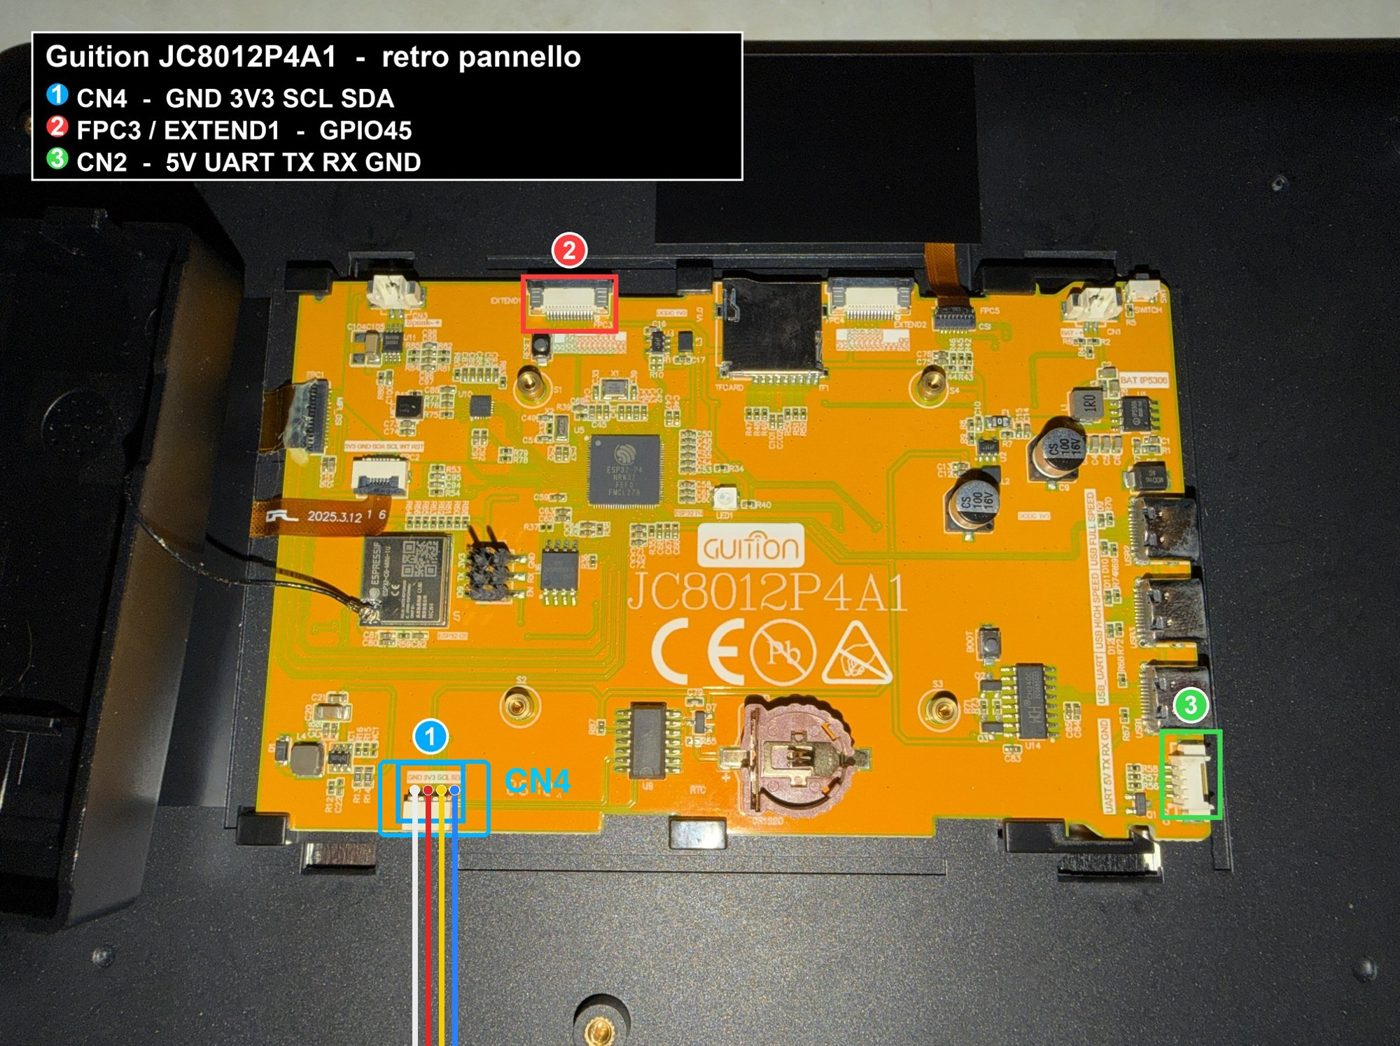
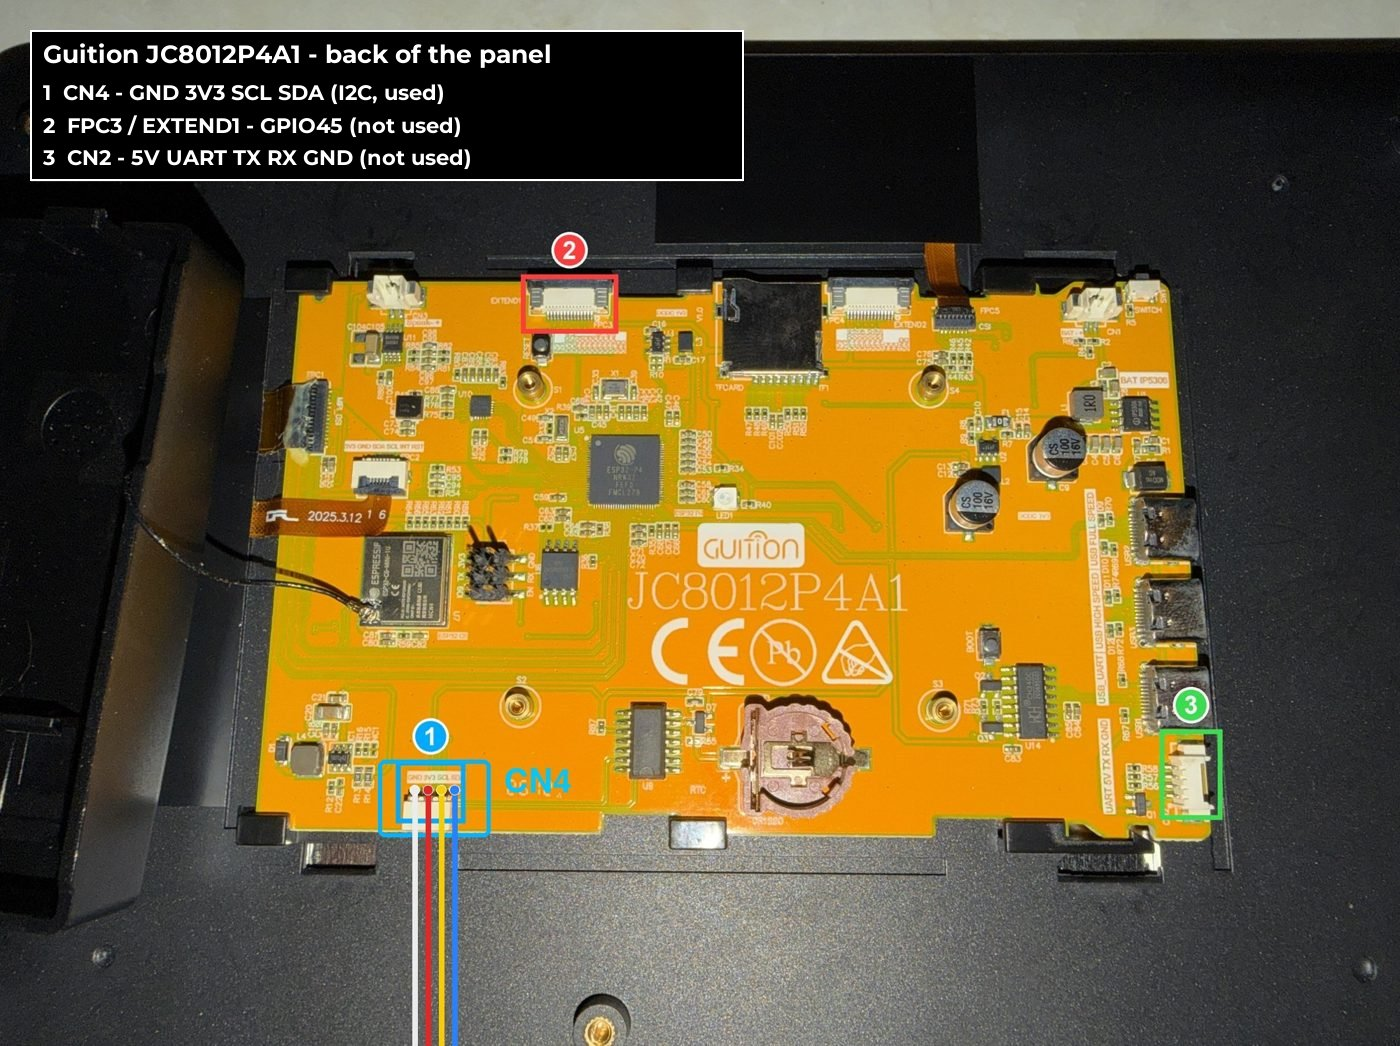
docs: English everywhere outside the on-screen UI (diagrams, file names, photo labels, secrets key)
Claude-Session: https://claude.ai/code/session_0126Dvc4Eq6tF5DjYDn9BQES

Changed region(s): [[0.0, 0.0306, 0.43, 0.1836]]

diff --git a/hardware/idc16-plug/idc16_plug.py b/hardware/idc16-plug/idc16_plug.py
@@ -1,7 +1,7 @@
 # Printed male plug for the CBE DS-300 conn 17 cable (2x8 IDC female socket,
 # 2.54 mm pitch). Replaces the shrouded box header of the old CBE panel.
-# Run: /Applications/FreeCAD.app/Contents/Resources/bin/freecadcmd connettore.py
-# Output (next to this file): spina_idc16.step/.stl
+# Run: /Applications/FreeCAD.app/Contents/Resources/bin/freecadcmd idc16_plug.py
+# Output (next to this file): idc16_plug.step/.stl
 #
 # Build (Dupont-housing style): crimp Dupont MALE terminals and push them in
 # from the back, lance facing OUTWARDS (top row up, bottom row down). The box
@@ -65,9 +65,9 @@ socket = box(-SOCKET[0] / 2, SOCKET[0] / 2, -SOCKET[1] / 2, SOCKET[1] / 2, 0.01,
     box(-4.5 / 2, 4.5 / 2, SOCKET[1] / 2 - 0.01, SOCKET[1] / 2 + 0.9, 0.01, 9.0))
 
 import MeshPart
-plug.exportStep(os.path.join(OUT, "spina_idc16.step"))
+plug.exportStep(os.path.join(OUT, "idc16_plug.step"))
 MeshPart.meshFromShape(Shape=plug, LinearDeflection=0.02, AngularDeflection=0.2).write(
-    os.path.join(OUT, "spina_idc16.stl"))
+    os.path.join(OUT, "idc16_plug.stl"))
 ok = plug.isValid() and len(plug.Solids) == 1
 fit = plug.common(socket).Volume
 flipped = socket.copy(); flipped.rotate(V(0, 0, 0), V(0, 0, 1), 180)
@@ -75,7 +75,7 @@ wrong = plug.common(flipped).Volume
 print("valid=%s solids=%d  %.0f x %.1f x %.1f mm  vol=%.1f cm3" % (
     plug.isValid(), len(plug.Solids), out_l, out_w, FLOOR + BACK_H + SHROUD_H, plug.Volume / 1000))
 print("IDC nel verso giusto: interferenza=%.2f (deve essere 0)" % fit)
-print("IDC girato 180: interferenza=%.2f (deve essere >0 = non entra)" % wrong)
-print("pin sporgenti ~%.1f mm con pin Dupont da 6 mm" % (6 - FLOOR))
+print("IDC rotated 180: interference=%.2f (must be >0 = does not fit)" % wrong)
+print("pins protrude ~%.1f mm with 6 mm Dupont pins" % (6 - FLOOR))
 ok &= fit < 0.01 and wrong > 0.5
 print("OK" if ok else "FALLITO")

diff --git a/hardware/display-mount/display_mount.py b/hardware/display-mount/display_mount.py
@@ -1,12 +1,12 @@
 # Wall mount for the Guition JC8012P4A1C (10.1") in the camper.
-# Run: /Applications/FreeCAD.app/Contents/Resources/bin/freecadcmd supporto.py
-# Output (next to this file): piastra_display.step/.stl, staffa_parete.step/.stl,
-# assieme.step (with a dummy display, for checking).
+# Run: /Applications/FreeCAD.app/Contents/Resources/bin/freecadcmd display_mount.py
+# Output (next to this file): display_plate.step/.stl, wall_bracket.step/.stl,
+# assembly.step (with a dummy display, for checking).
 #
 # Two printed parts:
-#  - piastra (display plate): screwed to the 6 M2.5 bosses of the display,
+#  - display plate: screwed to the 6 M2.5 bosses of the display,
 #    carries two French-cleat hooks at the top and a lock lug at the bottom.
-#  - staffa (wall bracket): flat base covering the old panel hole (210x75),
+#  - wall bracket: flat base covering the old panel hole (210x75),
 #    two wedge towers with the mating cleats (10 deg tilt, top away from wall),
 #    two bottom pads and a lock block. One M3 screw from below goes through the
 #    lock block into a heat-set insert in the plate lug: the display cannot lift
@@ -139,7 +139,7 @@ plate_g = plate.copy(); plate_g.Placement = PL
 disp_g = disp.copy(); disp_g.Placement = PL
 
 import MeshPart
-for name, shp in (("piastra_display", plate), ("staffa_parete", bracket)):
+for name, shp in (("display_plate", plate), ("wall_bracket", bracket)):
     shp.exportStep(os.path.join(OUT, name + ".step"))
     MeshPart.meshFromShape(Shape=shp, LinearDeflection=0.05, AngularDeflection=0.2).write(os.path.join(OUT, name + ".stl"))
-Part.makeCompound([plate_g, bracket, disp_g]).exportStep(os.path.join(OUT, "assieme.step"))
+Part.makeCompound([plate_g, bracket, disp_g]).exportStep(os.path.join(OUT, "assembly.step"))

diff --git a/README.md b/README.md
@@ -53,7 +53,7 @@ Other motorhomes with a CBE DS-300 and a 16-pin panel cable are likely the same,
 ![Architecture](images/architecture.svg)
 
 - The CBE panel is **only a remote control**. The DS-300 holds the relays and fuses; the panel closes a few command lines and reads levels over connector 17.
-- The two commands that matter, **C.GEN** (main 12 V loads: lights, sockets, boiler) and **C.POMPA** (water pump), are **active-low**: tie them to **GND** and the DS-300 switches that line on. Nothing else is needed: no pulses, no data protocol.
+- The two commands that matter, **pin 14** (main 12 V loads: lights, sockets, boiler) and **pin 6** (water pump), are **active-low**: tie them to **GND** and the DS-300 switches that line on. Nothing else is needed: no pulses, no data protocol.
 - The new panel does it with a **2-channel relay module on the NC contacts**. At rest (panel off, rebooting, dead) the NC contacts are closed, so **loads and pump stay ON**. The panel energises a relay only to switch something OFF.
 - The relays are driven by a **PCF8574** and the probes are read by an **ADS1115**, both on the I²C connector of the panel (CN4). No GPIO soldering on the board.
 - Everything else (lights, battery, water, gas…) comes from **Home Assistant** over WiFi.
@@ -62,23 +62,23 @@ Other motorhomes with a CBE DS-300 and a 16-pin panel cable are likely the same,
 
 ![Connector 17 pinout](images/conn17-pinout.svg)
 
-| Pin | Signal | Used here | Notes |
-|---|---|---|---|
-| 15 | **B2** +12 V (service battery) | ✅ power | always on, ~12.7 V (13.5 V on charge) |
-| 3 | **GND** | ✅ | |
-| 14 | **C.GEN** main 12 V loads | ✅ relay 1 | to GND = ON |
-| 6 | **C.POMPA** water pump | ✅ relay 2 | to GND = ON |
-| 9 | REC 3/3 grey tank full | ✅ ADS1115 A2 | passive probe, measured against pin 11 |
-| 11 | AGND | ✅ ADS1115 GND | the tank electrode, **not** ground (open circuit to pin 3) |
-| 13 | REC 1/3 grey tank ⅓ | – | not fitted in the author's tank |
-| 2 / 8 / 7 | POT 1/3, 2/3, 3/3 fresh water | – | water level comes from Home Assistant |
-| 5 | OUT D+ | – | |
-| 10 | S.RETE mains present | – | |
-| 12 | B1 engine battery | – | |
-| 4 | R.L.EXT outdoor light relay | – | |
-| 1, 16 | not connected | – | |
+| Pin | Signal | CBE label | Used here | Notes |
+|---|---|---|---|---|
+| 15 | **+12 V** service battery | B2 | ✅ power | always on, ~12.7 V (13.5 V on charge) |
+| 3 | **GND** | GND | ✅ | |
+| 14 | **main 12 V switch** | C.GEN | ✅ relay 1 | to GND = ON |
+| 6 | **water pump switch** | C.POMPA | ✅ relay 2 | to GND = ON |
+| 9 | **grey tank full** | REC 3/3 | ✅ ADS1115 A2 | passive probe, measured against pin 11 |
+| 11 | **probe ground** | AGND | ✅ ADS1115 GND | the tank electrode, **not** ground (open circuit to pin 3) |
+| 13 | grey tank ⅓ | REC 1/3 | – | not fitted in the author's tank |
+| 2 / 8 / 7 | fresh water ⅓, ⅔, full | POT 1/3, 2/3, 3/3 | – | water level comes from Home Assistant |
+| 5 | alternator D+ | OUT D+ | – | |
+| 10 | mains present | S.RETE | – | |
+| 12 | engine battery | B1 | – | |
+| 4 | outdoor light relay | R.L.EXT | – | |
+| 1, 16 | not connected | | – | |
 
-**Geometry**: two rows of 8. The row on the **key-slot side is 9–16**, the other row is 1–8, and columns pair `k` with `k+8`. The pin names come from the official CBE wiring diagram *DG01UK01.A* (PC-100/PC-200/DS-300) and were checked on the real van one by one with a multimeter and by switching the relays.
+**Geometry**: two rows of 8. The row on the **key-slot side is 9–16**, the other row is 1–8, and columns pair `k` with `k+8`. The CBE labels (Italian abbreviations) come from the official CBE wiring diagram *DG01UK01.A* (PC-100/PC-200/DS-300) and were checked on the real van one by one with a multimeter and by switching the relays.
 
 **How it was confirmed**
 
@@ -106,11 +106,11 @@ Other motorhomes with a CBE DS-300 and a 16-pin panel cable are likely the same,
 
 ### 1. Find pin 15 and pin 3
 
-Unplug the old CBE panel. On the 16-pin cable, measure **~12.7 V between pin 15 (B2) and pin 3 (GND)**. If you read 0 V, the battery isolator is open or the B2 fuse is blown: fix that first. If the pins look swapped, the plug is rotated by 180°: B2 and GND sit in mirrored positions.
+Unplug the old CBE panel. On the 16-pin cable, measure **~12.7 V between pin 15 (+12 V) and pin 3 (GND)**. If you read 0 V, the battery isolator is open or the B2 fuse is blown: fix that first. If the pins look swapped, the plug is rotated by 180°: +12 V and GND sit in mirrored positions.
 
 ### 2. Print and wire the IDC16 plug
 
-The cable from the DS-300 ends in a female 2×8 IDC socket. [`hardware/idc16-plug/spina_idc16.stl`](hardware/idc16-plug/spina_idc16.stl) is a male shroud for it: crimp **Dupont male terminals** on the wires and push them in from the back, lance facing outwards, until they click. A zip tie over the back holds the socket against vibration.
+The cable from the DS-300 ends in a female 2×8 IDC socket. [`hardware/idc16-plug/idc16_plug.stl`](hardware/idc16-plug/idc16_plug.stl) is a male shroud for it: crimp **Dupont male terminals** on the wires and push them in from the back, lance facing outwards, until they click. A zip tie over the back holds the socket against vibration.
 
 | | |
 |---|---|
@@ -120,7 +120,7 @@ The cable from the DS-300 ends in a female 2×8 IDC socket. [`hardware/idc16-plu
 
 Only six wires are needed (pins 15, 3, 14, 6, 9, 11). The author wired all sixteen, for future use. The wire colours in the pinout picture are the ones of this plug, not of the van's cable.
 
-Measure your IDC socket before printing: the parameters are at the top of [`connettore.py`](hardware/idc16-plug/connettore.py) (FreeCAD, `freecadcmd connettore.py` regenerates the STL and STEP).
+Measure your IDC socket before printing: the parameters are at the top of [`idc16_plug.py`](hardware/idc16-plug/idc16_plug.py) (FreeCAD, `freecadcmd idc16_plug.py` regenerates the STL and STEP).
 
 ### 3. Wire the interface
 
@@ -131,7 +131,7 @@ Measure your IDC socket before printing: the parameters are at the top of [`conn
 3. **I²C bus** from CN4 of the panel (`GND · 3V3 · SCL · SDA`, follow the silkscreen labels, not the wire colours) to the PCF8574, the ADS1115 and the relay module (**VCC = 3.3 V** and GND only, the inputs side).
 4. **Remove the VCC–JD-VCC jumper** on the relay module. With the jumper on and VCC at 5 V, the 3.3 V "high" of the PCF8574 does not fully turn the opto off and the relay can stay on.
 5. **PCF8574**: A0, A1, A2 to GND (address 0x20). **P0 → IN1**, **P1 → IN2**.
-6. **Relay 1**: COM → pin 3 (GND), **NC** → pin 14 (C.GEN). **Relay 2**: COM → pin 3, **NC** → pin 6 (C.POMPA). Leave NO free.
+6. **Relay 1**: COM → pin 3 (GND), **NC** → pin 14. **Relay 2**: COM → pin 3, **NC** → pin 6. Leave NO free.
 7. **ADS1115**: ADDR to GND with a wire (floating = random address).
    - A0 and A1: the two **original CBE NTC probes** (2 wires each, no polarity; they reach the panel directly, not through connector 17). Divider: 3V3 → 10 kΩ 1% → A0 → NTC → GND. The author's probes measure **B = 3950, R25 = 9.2 kΩ**.
    - A2: **grey tank full**. 3V3 → 100 kΩ → A2 → pin 9, and **pin 11 (AGND) → ADS1115 GND with its own wire**. Without it the probe has no return path.
@@ -148,14 +148,14 @@ The author put the ADS1115 and the four resistors on a small perfboard, one bus 
 
 ### 4. Mount the panel
 
-[`hardware/display-mount/`](hardware/display-mount/) is a two-part wall mount: a plate screwed to the six M2.5 bosses on the back of the display, and a wall bracket that covers the old panel cut-out (210 × 75 mm) with a 10° tilt. The plate hangs on French cleats and one M3 screw from below into a heat-set insert locks it. Print in PETG. Parameters and dimensions are in [`supporto.py`](hardware/display-mount/supporto.py).
+[`hardware/display-mount/`](hardware/display-mount/) is a two-part wall mount: a plate screwed to the six M2.5 bosses on the back of the display, and a wall bracket that covers the old panel cut-out (210 × 75 mm) with a 10° tilt. The plate hangs on French cleats and one M3 screw from below into a heat-set insert locks it. Print in PETG. Parameters and dimensions are in [`display_mount.py`](hardware/display-mount/display_mount.py).
 
 ![Clock screen](images/panel-clock.jpg)
 *Rest screen with the clock, after 30 s without touches.*
 
 ## Firmware
 
-[`firmware/panel-p4.yaml`](firmware/panel-p4.yaml) is a single ESPHome file (~3800 lines, LVGL). Labels on the screen are in Italian; code and comments are mostly Italian too.
+[`firmware/panel-p4.yaml`](firmware/panel-p4.yaml) is a single ESPHome file (~3800 lines, LVGL). Labels on the screen are in Italian (the author's van); code comments are in English. Some identifiers keep Italian names (`utenze` = 12 V loads, `pompa` = pump, `grigie` = grey water).
 
 ```bash
 pip install esphome==2026.6.4
@@ -168,7 +168,7 @@ esphome logs    firmware/panel-p4.yaml --device <panel-ip>
 - **First flash over USB**: hold **BOOT** while plugging the USB-C cable, otherwise the web flasher "succeeds" without writing and the Guition factory demo stays on.
 - **Secrets**: WiFi, API key, OTA password, the **6-digit PIN** asked before switching the 12 V, and the Home Assistant URL (for the album cover).
 - **Home Assistant entities**: the panel reads about 90 entities (lights, battery, water, gas, climate, tyres, engine…), listed in the `sensor:` / `text_sensor:` / `binary_sensor:` sections. **Replace the `entity_id`s with yours.** A missing entity does not crash anything: the value shows `--`.
-- **Hardware entities** exposed to Home Assistant: "Utenze 12V" (relay 1), "Pompa acqua" (relay 2), "Temp interna / esterna (sonda CBE)", "Grigie piene", plus the `Reset utenze 12V` button (OFF → 3 s → ON).
+- **Hardware entities** exposed to Home Assistant: "Utenze 12V" (12 V loads, relay 1), "Pompa acqua" (water pump, relay 2), "Temp interna / esterna (sonda CBE)" (inside / outside temperature), "Grigie piene" (grey tank full), plus the `Reset utenze 12V` button (reset 12 V loads, OFF → 3 s → ON).
 - **Touch driver**: `firmware/components/gsl3680` is the GSL3680 component from [kvj/esphome `jd9365_gsl3680`](https://github.com/kvj/esphome/tree/jd9365_gsl3680), vendored with a small patch for ESPHome 2026.x.
 - **Self-check** of the helper functions (autonomy estimates): `c++ -std=c++17 tools/test_ui_helpers.cpp -o /tmp/t && /tmp/t`.
 - **Floor plan**: `firmware/images/plan_{dark,light}.png` is the Elnagh Prince 55L. Draw your own and move the light buttons in the `page_home` section.
@@ -181,9 +181,9 @@ Design mockups of the UI (the firmware follows them; the photos above are the re
 |---|---|
 | ![Home](images/screens/home.png) | ![Home, light](images/screens/home-light.png) |
 | *Home: floor plan with the lights, resources, inside temperature, scenes* | *Same page, light theme (switched by a lux sensor in Home Assistant)* |
-| ![Resources](images/screens/risorse.png) | ![Climate](images/screens/clima.png) |
+| ![Resources](images/screens/resources.png) | ![Climate](images/screens/climate.png) |
 | *Resources: battery, water, gas, grey water, days left, 3-day chart* | *Climate: air conditioner, fridges, Webasto status* |
-| ![Vehicle](images/screens/veicolo.png) | ![Night](images/screens/notte.png) |
+| ![Vehicle](images/screens/vehicle.png) | ![Night](images/screens/night.png) |
 | *Vehicle: engine, tyres, spirit level, last trip, warning lights* | *Night screen: dim amber clock* |
 
 ## Switching the 12 V from the screen
@@ -191,12 +191,12 @@ Design mockups of the UI (the firmware follows them; the photos above are the re
 The main switch cuts the lights, the 12 V sockets, the boiler, and in the author's van also the Raspberry Pi with Home Assistant and the router. So:
 
 - **A PIN is asked** both to switch off and to switch on: a hand on the screen must not black out the camper.
-- **Switching off takes 90 s**: the panel first calls a Home Assistant script (`script.camper_spegni_server`) that shuts down the server and the router cleanly, then cuts the line. A big **countdown** stays on screen.
+- **Switching off takes 90 s**: the panel first calls a Home Assistant script (`script.camper_spegni_server`, "switch off server") that shuts down the server and the router cleanly, then cuts the line. A big **countdown** stays on screen.
 
 | | |
 |---|---|
-| ![Countdown](images/screens/popup-countdown.png) | ![Loads off](images/screens/popup-spente.png) |
-| *Countdown before the cut* | *With the 12 V off, any touch on a page shows this: "Accendi le utenze" opens the PIN pad* |
+| ![Countdown](images/screens/popup-countdown.png) | ![Loads off](images/screens/popup-loads-off.png) |
+| *Countdown before the cut ("Spegnimento in corso" = switching off)* | *With the 12 V off, any touch on a page shows this: "Utenze 12V spente" = 12 V loads off, "Accendi le utenze" (switch on) opens the PIN pad* |
 
 - The panel itself runs from **B2 before the main relay**, so it stays on with the loads off and can switch them back on.
 - Fail-safe by design: no panel = relays at rest = everything on. A crash can never leave the van dark.
@@ -205,7 +205,7 @@ The **water pump** switch has no PIN: it is meant for repairs or a leak. Note th
 
 ## Webasto (optional, not done here)
 
-The Climate page shows the Webasto state from a Home Assistant entity (`binary_sensor.webasto_in_funzione`); it shows `--` if you don't have one.
+The Climate page shows the Webasto state from a Home Assistant entity (`binary_sensor.webasto_in_funzione`, "Webasto running"); it shows `--` if you don't have one.
 
 Driving the heater from this panel was planned (relay 2 in parallel with the button of the MultiControl MC04/05 knob, status read from the spare plug behind it) but **was not finished on purpose**: a complete reverse engineering of the **Webasto MC04/05 panel** is under way and will be published as a separate repository, with an ESP32 that replaces the knob. This repo will link it when it is out.
 
@@ -218,9 +218,9 @@ The vehicle page needs data that the DS-300 does not have. Both projects below f
 
 ## Gotchas
 
-- **No resistor in series.** A 1 kΩ "to be safe" between C.GEN and GND leaves about 1 V on the DS-300 relay coil: nothing clicks, and you think the pin is wrong. Use a straight wire (or the relay contact).
+- **No resistor in series.** A 1 kΩ "to be safe" between pin 14 and GND leaves about 1 V on the DS-300 relay coil: nothing clicks, and you think the pin is wrong. Use a straight wire (or the relay contact).
 - **B2 and GND are mirrored.** A plug rotated by 180° swaps them and every measurement looks wrong. Check 12.7 V on pin 15 first.
-- **No low-voltage cut-off any more.** The CBE panel switched the loads off below ~10 V; the DS-300 does not. Watch the battery in Home Assistant (the panel has a "battery below 30%" alarm).
+- **No low-voltage cut-off any more.** The CBE panel switched the loads off below ~10 V; the DS-300 does not. Watch the battery in Home Assistant (the panel shows a "battery below 30%" alarm).
 - **Pin 11 (AGND) is not ground.** It is the common electrode in the grey tank (open circuit to pin 3). The probe needs a dedicated wire from pin 11 to the ADS1115 GND.
 - **A broken Dupont looks like a dead chip.** If a relay doesn't respond, bridge IN to GND by hand: if it clicks, check the wire before blaming the PCF8574.
 - **ESP32-C6 WiFi**: after a USB flash the C6 co-processor is not reset. If WiFi does not come back, remove power for a few seconds.
